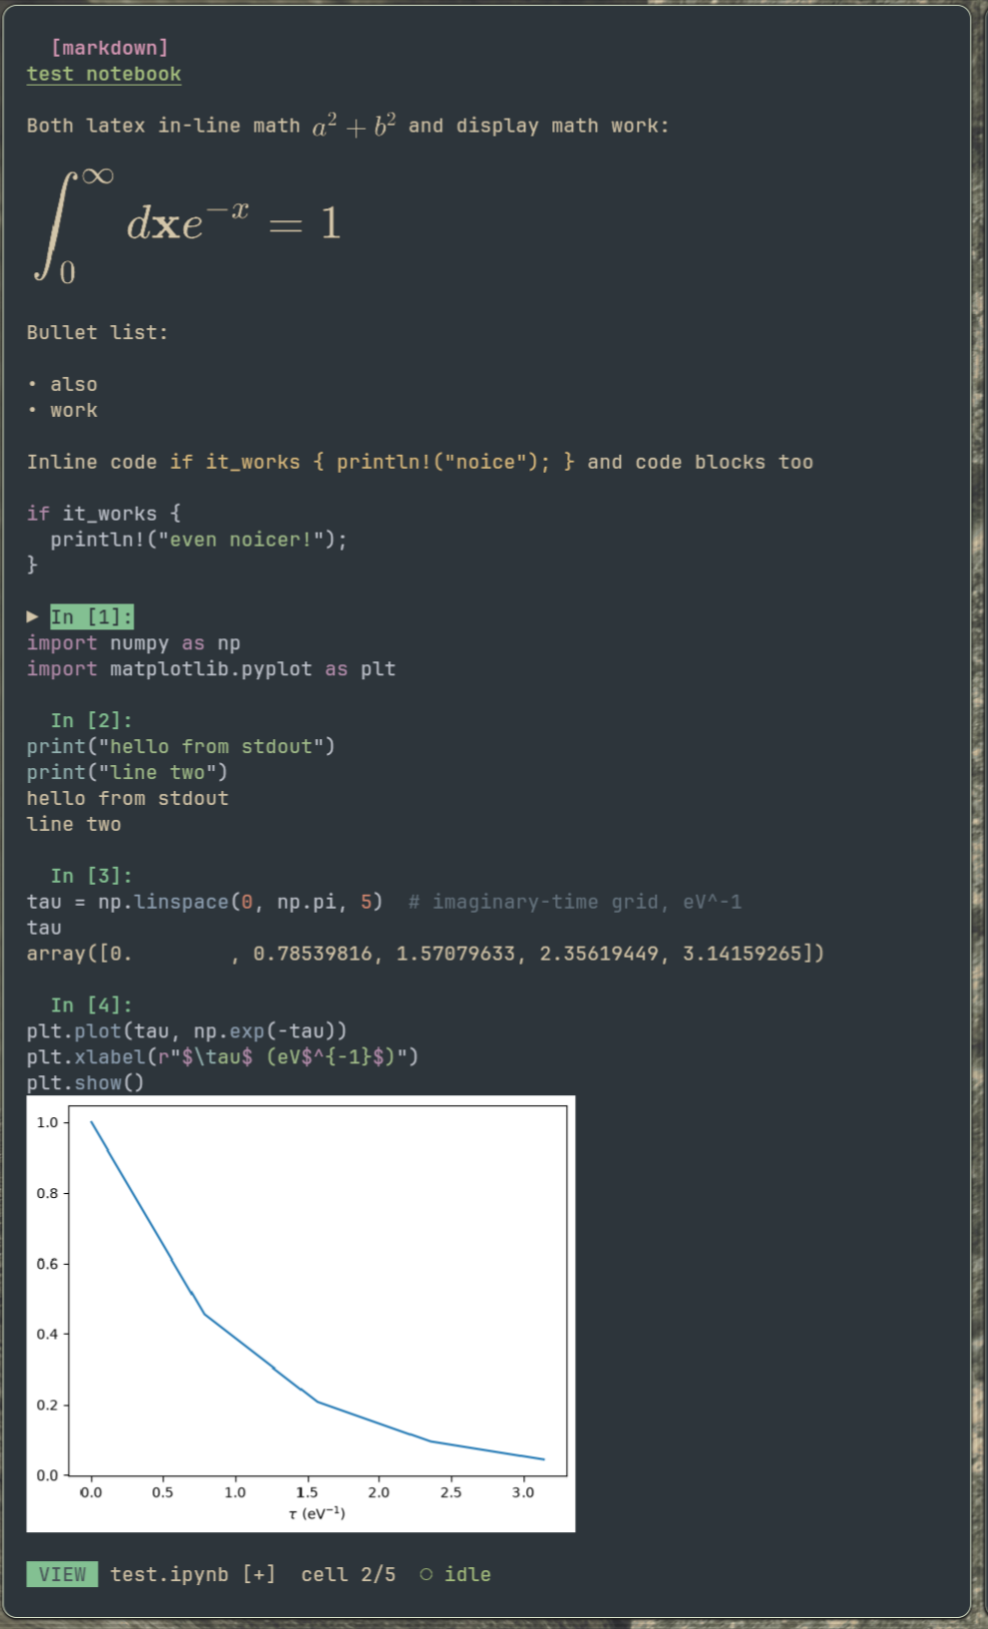
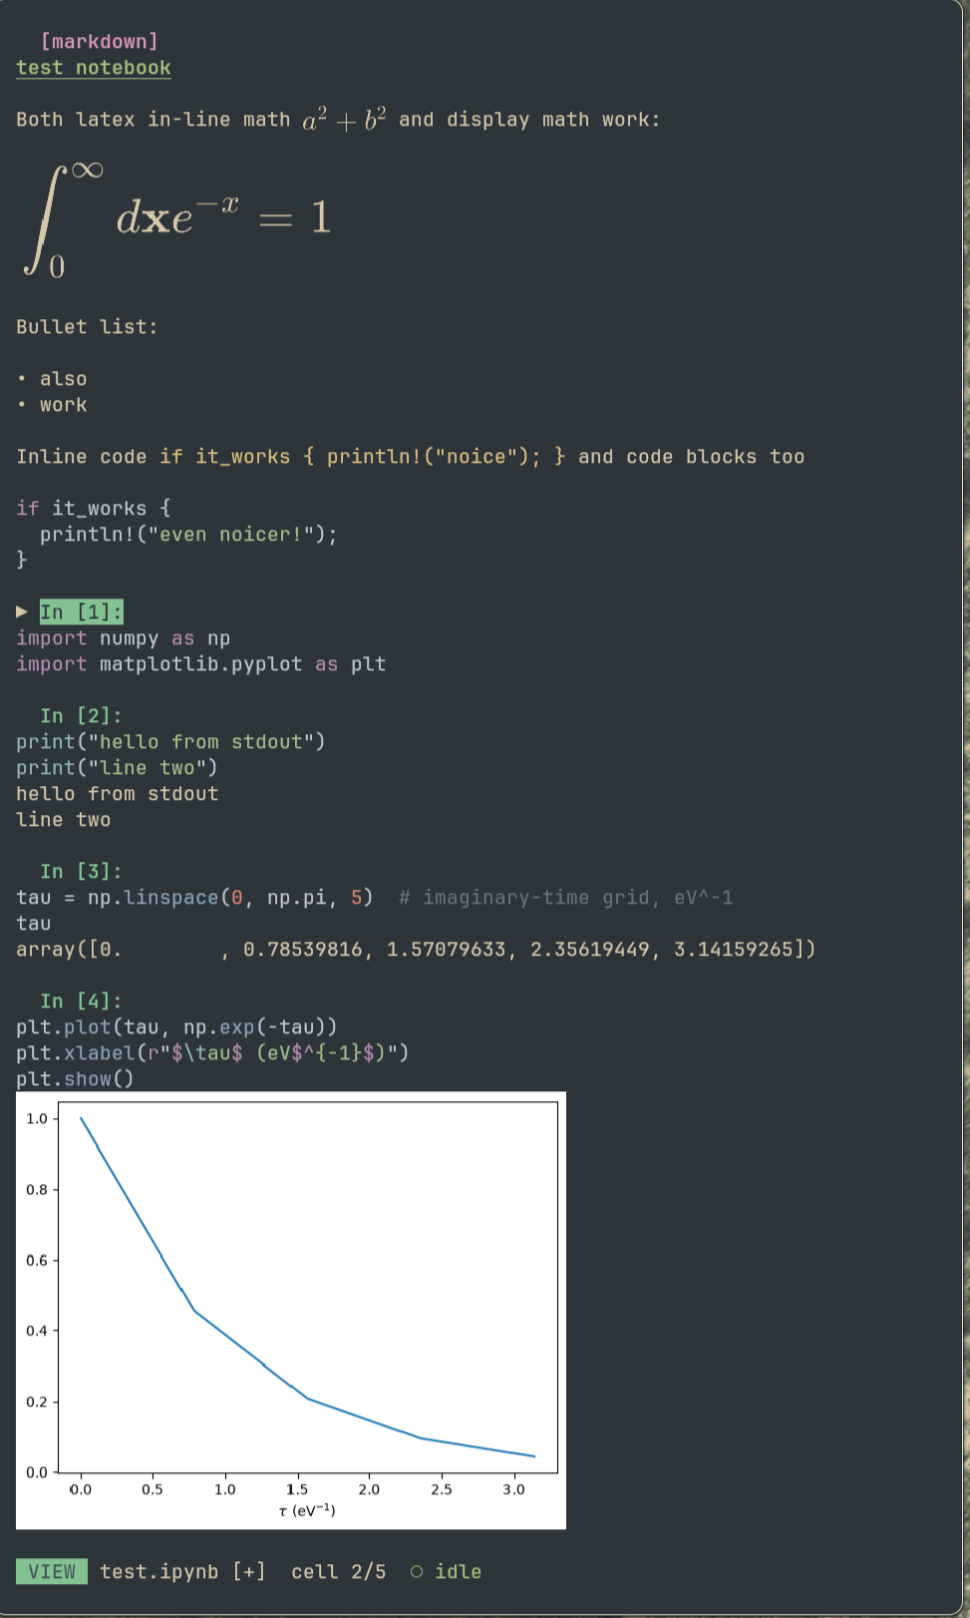
update showcase

diff --git a/README.md b/README.md
@@ -59,7 +59,3 @@ Press `?` inside for the full key reference.
 ## Terminal support
 
 Best in [kitty](https://sw.kovidgoyal.net/kitty/) (graphics + keyboard protocol → `Shift+Enter`, distinct modifier keys). Any terminal works: graphics fall back to sixel/iTerm2/unicode halfblocks, and `r` runs cells where `Shift+Enter` can't be distinguished.
-
-## Status
-
-MVP complete — viewer, execution, editing, graphics, LaTeX. See [PLAN.md](PLAN.md) for architecture and the v2 roadmap.
